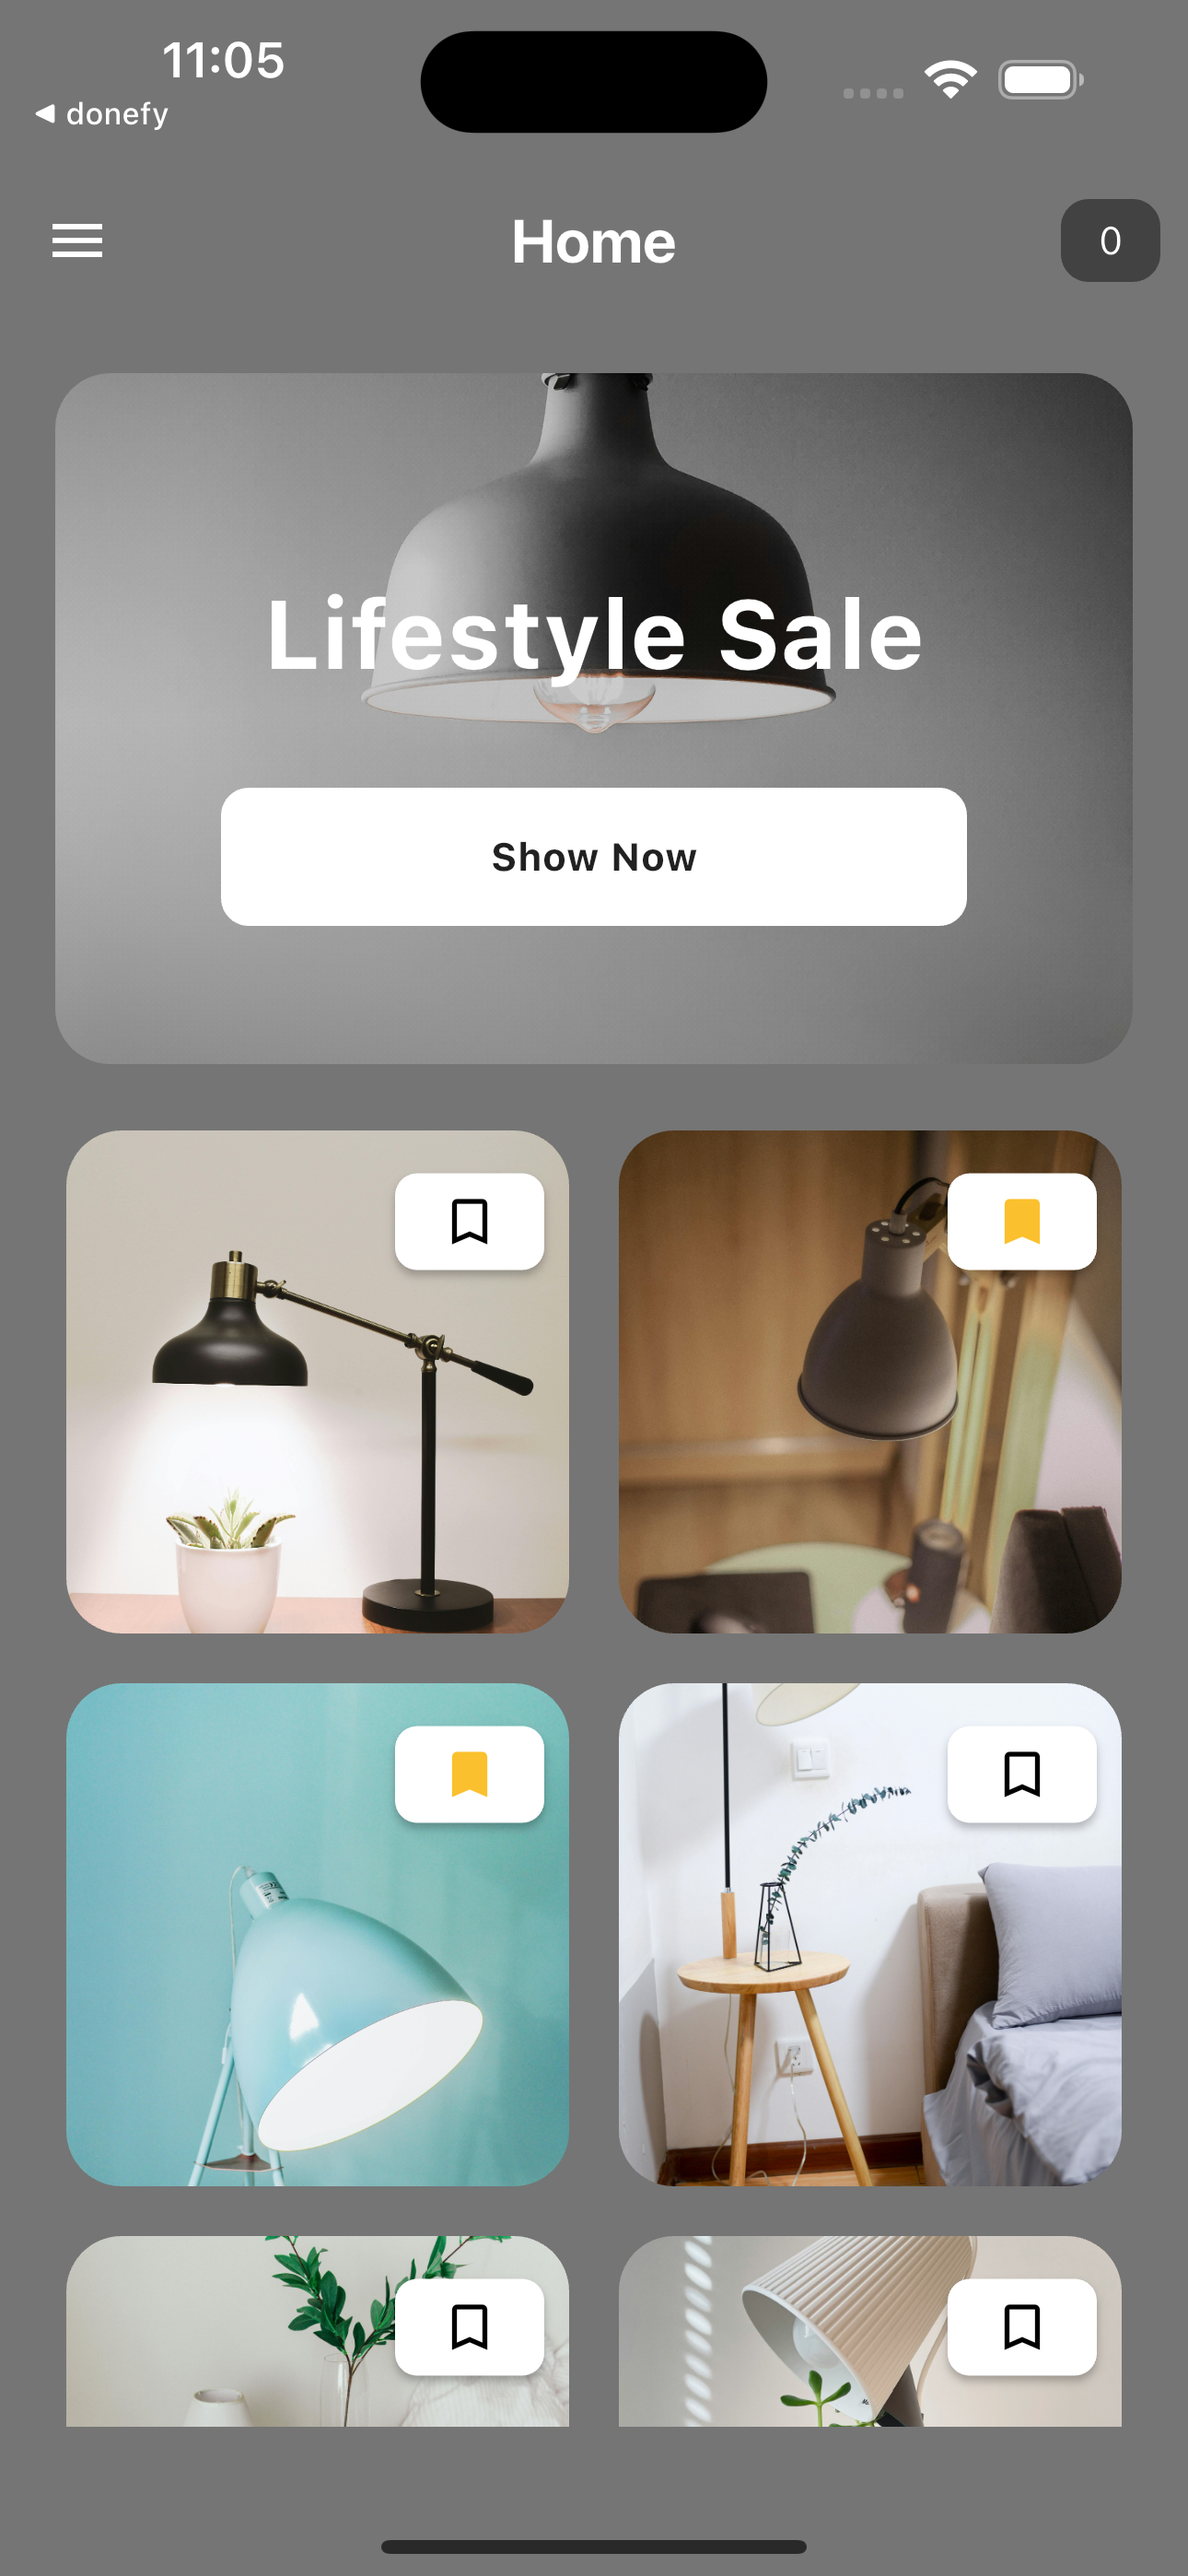
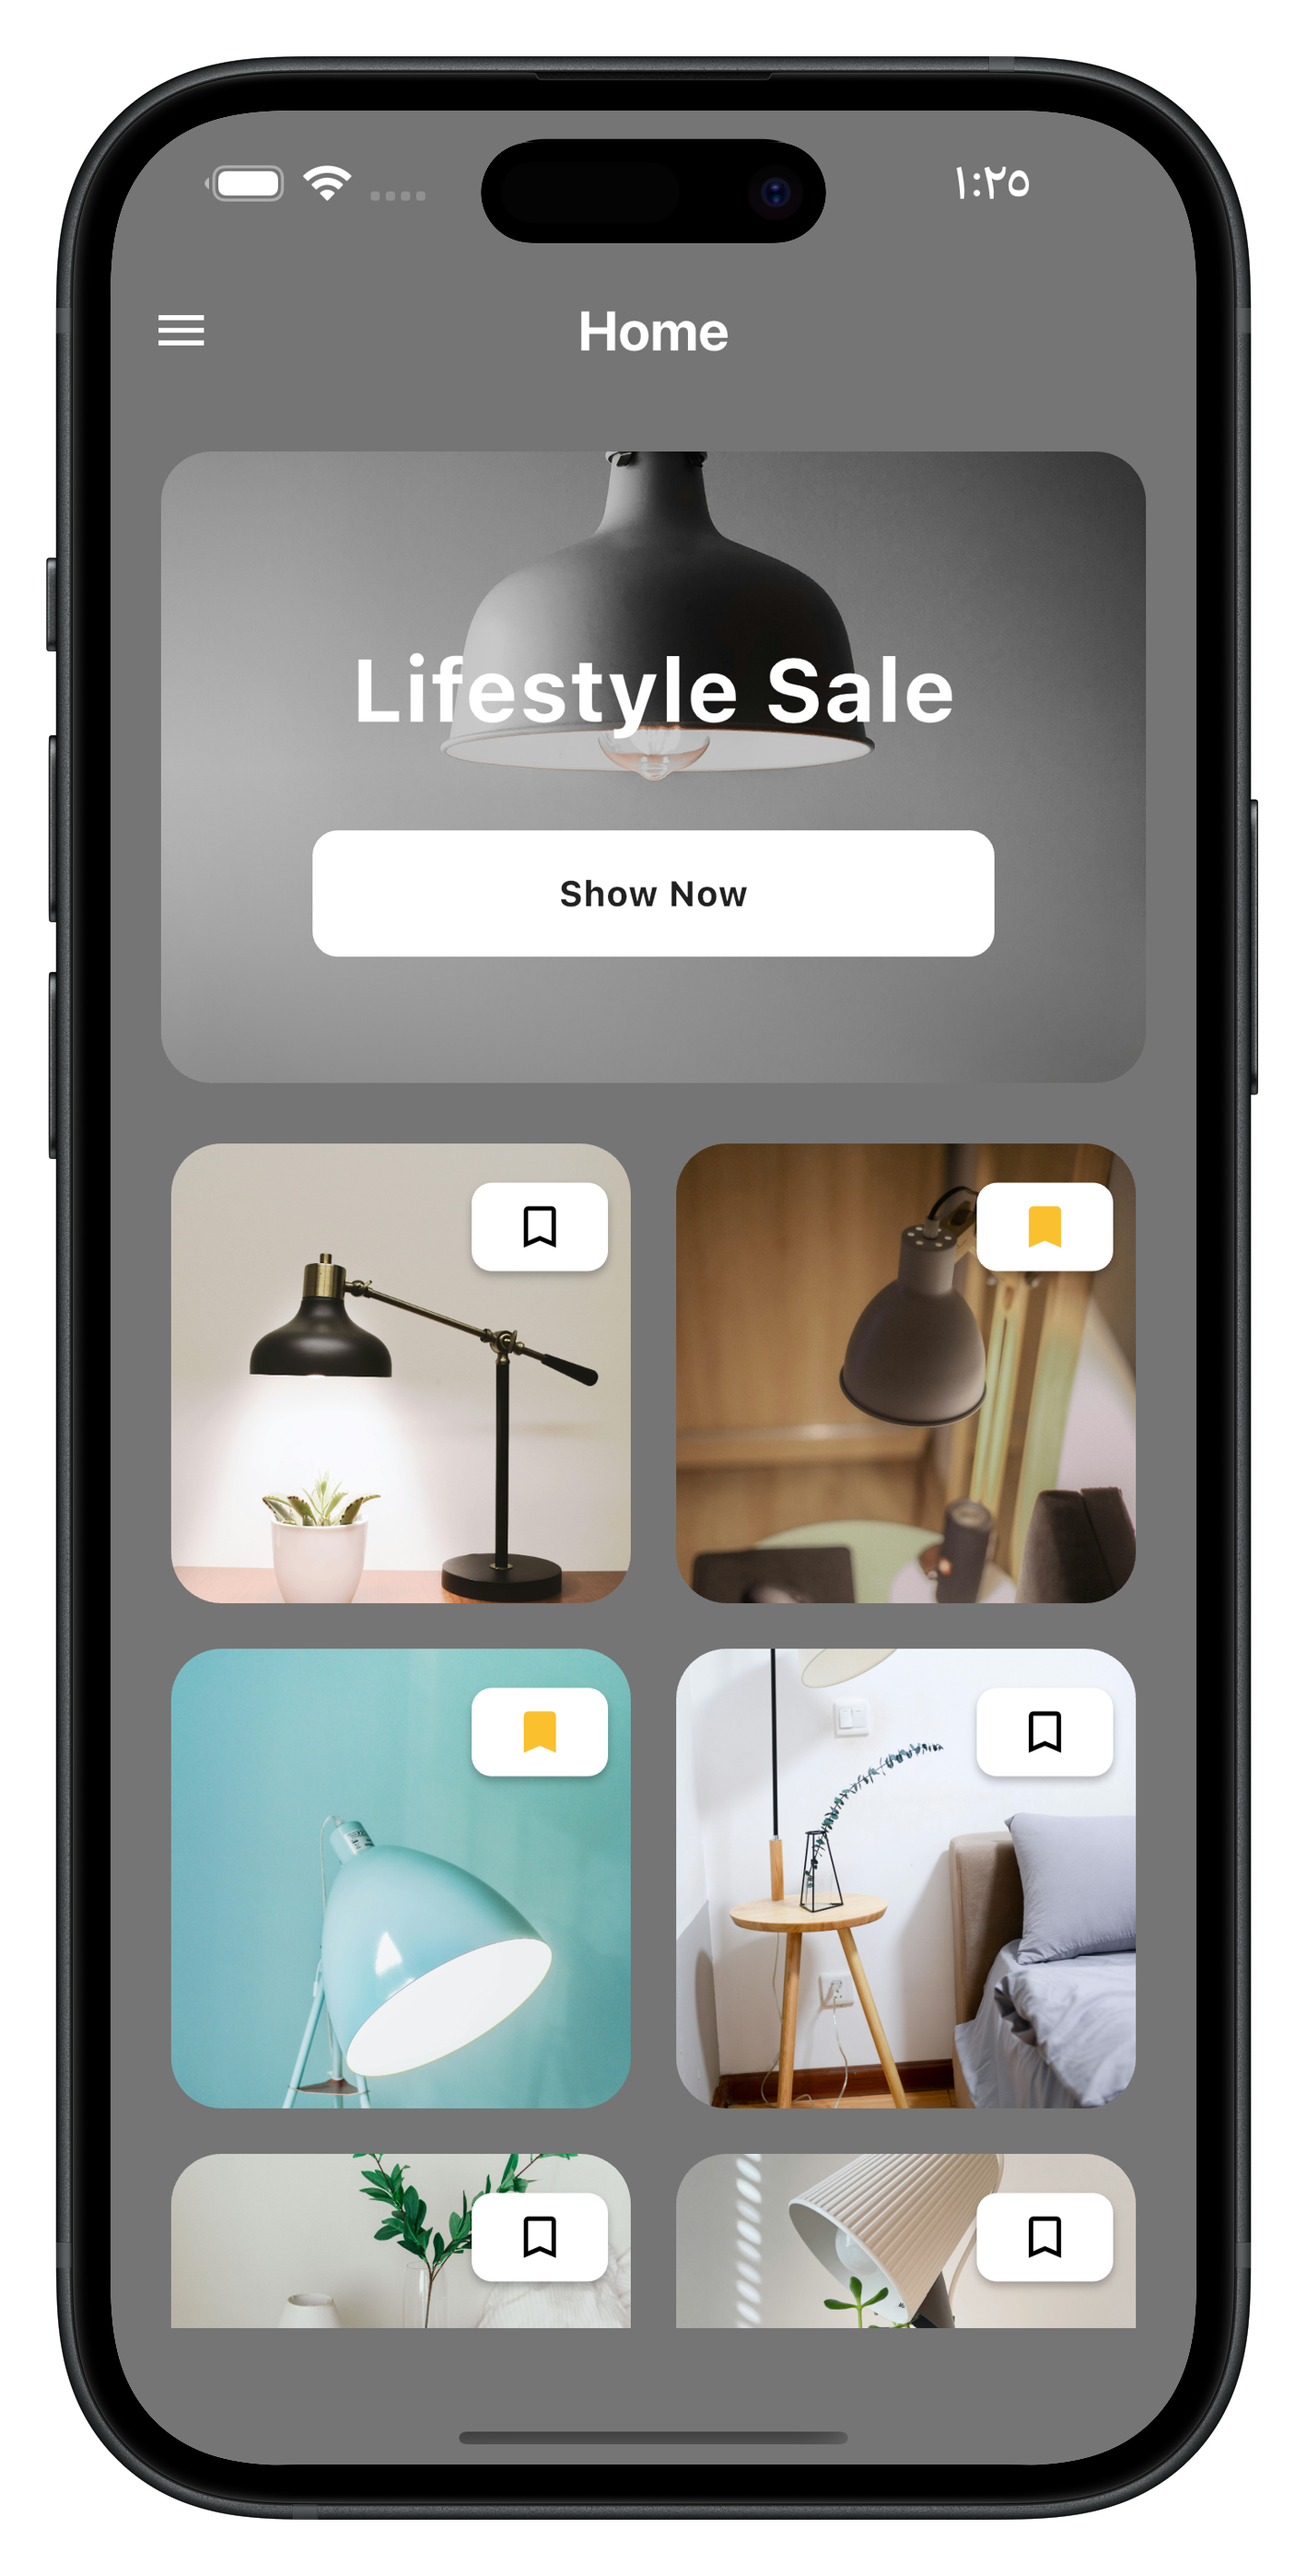
add screenshot images

diff --git a/lib/homePage.dart b/lib/homePage.dart
@@ -40,9 +40,9 @@ class _HomePageState extends State<HomePage> {
             Icons.menu,
             color: Colors.white,
           ),
-          actions: [
-           containerNumberSekectItem()
-          ],
+          // actions: [
+          //  containerNumberSekectItem()
+          // ],
         ),
         body: SafeArea(
             child: Container(

diff --git a/ios/Runner/AppDelegate.swift b/ios/Runner/AppDelegate.swift
@@ -1,7 +1,7 @@
 import UIKit
 import Flutter
 
-@UIApplicationMain
+@main
 @objc class AppDelegate: FlutterAppDelegate {
   override func application(
     _ application: UIApplication,

diff --git a/README.md b/README.md
@@ -1,12 +1,13 @@
 # gridview_ui
 
-A new Flutter project.
+Discover the elegance of simplicity with this Lifestyle Sale App. The app's modern design showcases an inviting and user-friendly interface, perfect for exploring lifestyle products. Featuring a prominent promotional banner for exclusive sales, followed by a visually appealing grid of product images, the app makes shopping easy and enjoyable. Its minimalist layout ensures smooth navigation, creating a seamless experience for users to browse, discover, and shop their favorite items
 
-## Getting Started
 
-This project is a starting point for a Flutter application.
+<p float="left">
+  <img src="assets/screenshot/screenshot_1.png/" width="250" />
+   <img src="assets/screenshot/screenshot_4.png/" width="250" />
 
-A few resources to get you started if this is your first Flutter project:
+</p>
 
 - [Lab: Write your first Flutter app](https://docs.flutter.dev/get-started/codelab)
 - [Cookbook: Useful Flutter samples](https://docs.flutter.dev/cookbook)
